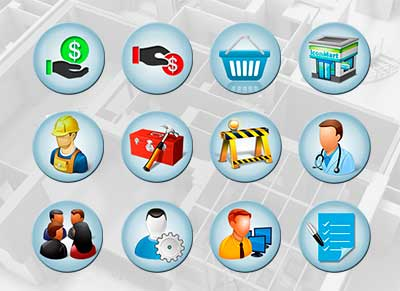
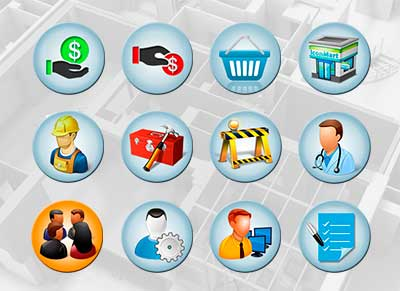
README com imagem de layout e algumas alterações

Changed region(s): [[0.06, 0.6804, 0.27, 0.9588]]

diff --git a/dados.py b/dados.py
@@ -21,6 +21,28 @@ def bd():
         obra_id INTEGER
     );
     
+    CREATE TABLE IF NOT EXISTS Vales (
+        id INTEGER NOT NULL PRIMARY KEY AUTOINCREMENT UNIQUE,
+        funcionario_id INTEGER,
+        valor INTEGER,
+        data VARCHAR(10)
+    );
+    
+    CREATE TABLE IF NOT EXISTS Faltas (
+        id INTEGER NOT NULL PRIMARY KEY AUTOINCREMENT UNIQUE,
+        funcionario_id INTEGER,
+        falta INTEGER,
+        data VARCHAR(10)
+    );
+    
+    CREATE TABLE IF NOT EXISTS Ferias (
+        id INTEGER NOT NULL PRIMARY KEY AUTOINCREMENT UNIQUE,
+        funcionario_id INTEGER,
+        inicio VARCHAR(10),
+        fim VARCHAR(10)
+    )
+        
+    
     CREATE TABLE IF NOT EXISTS Mural (
         id INTEGER NOT NULL PRIMARY KEY AUTOINCREMENT UNIQUE,
         user_id INTEGER,

diff --git a/relatorios.py b/relatorios.py
@@ -1,22 +1,10 @@
-# encoding: 'utf-8'
+# coding: 'utf-8'
 
 def ver_obras():
-    obras = list()
-    with open('obras.txt', 'r') as f:
-        for x in f.readlines():
-            obras.append(x.split('_'))
-    return obras
+    pass
 
 def ver_fornecedores():
-    fornecedores = []
-    with open('fornecedores.txt', 'r') as f:
-        for x in f.readlines():
-            fornecedores.append(x.split('_'))
-    return fornecedores
+    pass
 
 def ver_funcionarios():
-    funcionarios = []
-    with open('funcionarios.txt', 'r') as f:
-        for x in f.readlines():
-            funcionarios.append(x)
-    return funcionarios
+    pass

diff --git a/requisicoes.py b/requisicoes.py
@@ -53,4 +53,3 @@ class WinRequisicoes(object):
 
         self.win.mainloop()
 
-WinRequisicoes()

diff --git a/main.py b/main.py
@@ -1,4 +1,4 @@
-#coding: 'utf-8'
+# coding: 'utf-8'
 
 
 from login import WinLogin

diff --git a/README.md b/README.md
@@ -1,38 +1,89 @@
-> # constructX
-> Sistema para Construtora Civil, que tem como objetivo, administrar a parte de escritório no controle e execução das Obras. 
-> Inicialmente é um aplicativo desk, que extenderá algumas funcionalidades para mobile.
+
+> <h1 align="center">constructX</h1>
+> 
+> #### <p align="justify">O ***constructX*** é um projeto voltado para Construtora Civil. Tem como objetivo, administrar a parte operacional, auxiliando na administração das <i>Obras</i>, controle de <i>Funcionários</i> e das finanças. 
+> #### <p align="justify">O projeto está sendo desenvolvido com um propósito de interface simples, possibilitando que qualquer usuário possa aprender facilmente como utilizar a aplicação e ter condições de trabalhar com agilidade.</p>
+> #### <p align="justify">A ideia inicial é ter a interface principal, com os botões abrindo janelas independentes. Se houver alguma notificação, a parte azulada do botão do setor correspondente mudará para a cor laranja, assim como o botão <i>Comunicação</i> está destacado na imagem "Interface Principal".</p>
+> #### <p align="justify">Tudo será armazenado em um Banco de Dados local (Possibilitando uso Offline) e atualizado em um Banco de Dados  online, para que as informações estejam "em dia" para todos os <i>Usuários</i>.</p>
+> #### <p align="justify">Inicialmente é uma aplicação <i>desk</i>, mas será desenvolvida uma extensão para mobile.</p>
+----------
+> <p align="center"><img src="https://user-images.githubusercontent.com/25084493/48874931-132be800-eddd-11e8-83e3-a5d9b8252f5c.jpg" title="Imagem da Interface Principal"></p>
+> <p align="center"><sup>Interface Principal</sup></p>
+-----------------------
+> <img src="https://user-images.githubusercontent.com/25084493/48856398-6bdb9080-ed9d-11e8-910c-8172c7251a0e.png" align="left" width=70 title="Imagem do botão">
 >
-> ## Receitas:
-> As entradas de pagamentos dos clientes, com controle de prazos.
+> #### *Receitas:* 
+> As entradas de pagamentos recebidos.
+-----
+> <img src="https://user-images.githubusercontent.com/25084493/48856631-0b008800-ed9e-11e8-9cbe-30d7c45f17f6.png" align="left" width=70 title="Imagem do botão">
 >
-> ## Requisições:
-> Solicitadas ao administrador principal. 
+> #### *Despesas (Contas a Pagar):*
+> Despesas relacionadas as *Obras* e contas a pagar.
+-----
+> <img src="https://user-images.githubusercontent.com/25084493/48856682-35eadc00-ed9e-11e8-8a92-8b5d37ebf3cb.png" align="left" width=70 title="Imagem do botão">
 >
-> Obs.: Os materiais normalmente são comprados para Obras diferentes em uma mesma NF(e boleto).
-Quando o boleto correspondente a NF for quitado, as despesas relacionadas as Obras deverão sofrerem alterações. 
+> #### *Requisições:*
+> <p align="justify">As Requisições serão encaminhadas ao administrador principal, aguardando aprovação do mesmo. Ao serem aprovadas, o conteúdo será encaminhado para o setor <i>Materiais</i>, onde serão direcionados às <i>Obras</i> correspondentes.</p>
+------
+> <img src="https://user-images.githubusercontent.com/25084493/48856715-4ef38d00-ed9e-11e8-8925-2d0f8148a035.png" align="left" width=70 title="Imagem do botão">
 >
-> ## Despesas:
->Despesas relacionadas as Obras.
+> #### *Fornecedores:*
+> Cadastro dos Fornecedores.  
+> Receberá aprovação de *Requisição* via e-mail, ou SMS.
+-----
+> <img src="https://user-images.githubusercontent.com/25084493/48856746-62065d00-ed9e-11e8-9853-bd58945b7322.png" align="left" width=70 title="Imagem do botão">
 >
-> ## Funcionários:
-> Cadastros e controle de férias.
+> #### *Funcionários:*
+> <p align="justify">Cadastro; Observações; Controle de Faltas e Férias; Termos de Contrato (Com impressão pré-formatada).</p>
+------
+> <img src="https://user-images.githubusercontent.com/25084493/48856758-70547900-ed9e-11e8-915b-1c0f45e73f72.png" align="left" width=70 title="Imagem do botão">
 >
-> ## Fornecedores:
-> Cadastro dos Fornecedores.
+> #### *Materiais:*
+> <p align="justify">Local onde os materiais comprados, através da <i>Requisição</i>, serão destinados como <i>Despesas</i> das <i>Obras</i> correspondentes e com possibilidade de agrupamento (Pelo fato de ser comum comprar materiais para <i>Obras</i> distintas de um mesmo <i>Fornecedor</i>, que emite uma única Nota. Então, ao realizar o pagamento dessa Nota, os valores correspondentes aos materias, deverão serem registrados como despesas das <i>Obras</i> correspondentes).</p>
+------
+> <img src="https://user-images.githubusercontent.com/25084493/48856785-82ceb280-ed9e-11e8-9447-d9d32847995d.png" align="left" width=70 title="Imagem do botão">
 >
-> ## Materiais:
-> Área separada para Materiais para melhor controle (principalmente de maquinário de grande porte alugado e enviado para diferentes obras).
-> Não será necessário catalogar material por material
+> #### *Obras:*
+> ***Informações:*** *Despesas; Receitas; Materiais; Situação; Observações.*
+----
+> <img src="https://user-images.githubusercontent.com/25084493/48857458-0ccb4b00-eda0-11e8-80f6-bf4d4cb94977.png" align="left" width=70 title="Imagem do botão">
 >
-> ## Clientes:
+> #### *Exames Médicos:*
+> Controle de exames dos *Funcionários*.
+------------
+> <img src="https://user-images.githubusercontent.com/25084493/48857486-2371a200-eda0-11e8-8569-5d1bb8c7f139.png" align="left" width=70 title="Imagem do botão">
+>
+> #### *Comunicação Interna:*
+> <p align="justify">Comunicação interna entre <i>Usuários</i> e grupos (confirmação de leitura e opção de envio de áudio) e Agenda.</p>
+----------
+> <img src="https://user-images.githubusercontent.com/25084493/48857760-cde9c500-eda0-11e8-8219-3e693c4c7754.png" align="left" width=70 title="Imagem do botão">
+>
+> #### *Usuários:*
+> Área de acesso exclusiva do *Administrador*, para gerencimanto de *Usuários*.
+> <p align="justify">Os <i>Usuários</i> serão divididos por grupos: <i>Administrador; Escritório; Encarregado.</i></p>
+>
+> - ***Administrador:*** <p align="justify">Acesso a todo o histórico do aplicativo; Responsável pela aprovação das Requisições; Acesso exclusivo às áreas administrativas: *Usuários* e *Administração*; Acesso exclusivo aos valores correspondente as *Obras*.</p>
+> - ***Escritório:*** <p align="justify">Acesso aos cadastros, lançamentos e a comunicação correspondente ao *Usuário*.</p>
+> - __Encarregado (*Mobile):__ <p align="justify">Acesso a comunicação que lhe compete; Observações em *Obras* (com possibilidade de envio de foto); Solicitações de *Materiais* com recebimento de autorização para pegar o material no *Fornecedor*.</p>
+> <h6> <sup> *A aplicação será extendida para Mobile.</sup></h6> 
+----------
+> <img src="https://user-images.githubusercontent.com/25084493/48857633-7ea39480-eda0-11e8-9e22-074c286d4f97.png" align="left" width=70 title="Imagem do botão">
+>
+> #### *Administração:*
+> Área exclusiva dos grupos: _Administrador_ e _Escritório_.
+> Aqui exibirá um resumo do que está acontecendo e o que está para acontecer.  
+> <p align="justify"> Usuários do grupo <i>Administrador</i> terão uma visão mais ampla (principalmente valores). Enquanto usuários do grupo <i>Escritório</i> visualizarão informações específicas.</p>
+-------
+> <img src="https://user-images.githubusercontent.com/25084493/48878335-1d0a1700-edee-11e8-8b6a-a59d4e384384.png" align="left" width=70 title="Imagem do botão">
+>
+> #### *Relatórios:*
+> Área exclusiva do _Administrador_.
+> Todos os relatórios necessários.
+-------
+>
+> #### *Clientes:*
 > Cadastro dos Clientes.
-> Obs.: Um mesmo cliente pode possuir várias Obras.
->  
-> ## Obras:
-> Cadastro e informações relacionadas a Despesas, Receitas, Materiais
+> Um mesmo cliente pode possuir várias Obras.
 >
-> ## Comunicação Interna:
-> Comunicação interna entre usuários.
->  
-> ## Banco de Dados:
-> Deverá possuir um BD local, atualizando o do servidor online para funcionarem offline e atualizar o BD online.
+> #### *Banco de Dados:*
+> <p align="justify">Deverá possuir um BD local, atualizando o do servidor online, para funcionarem offline e manter o programa atualizado para todos os usuários.</p>
